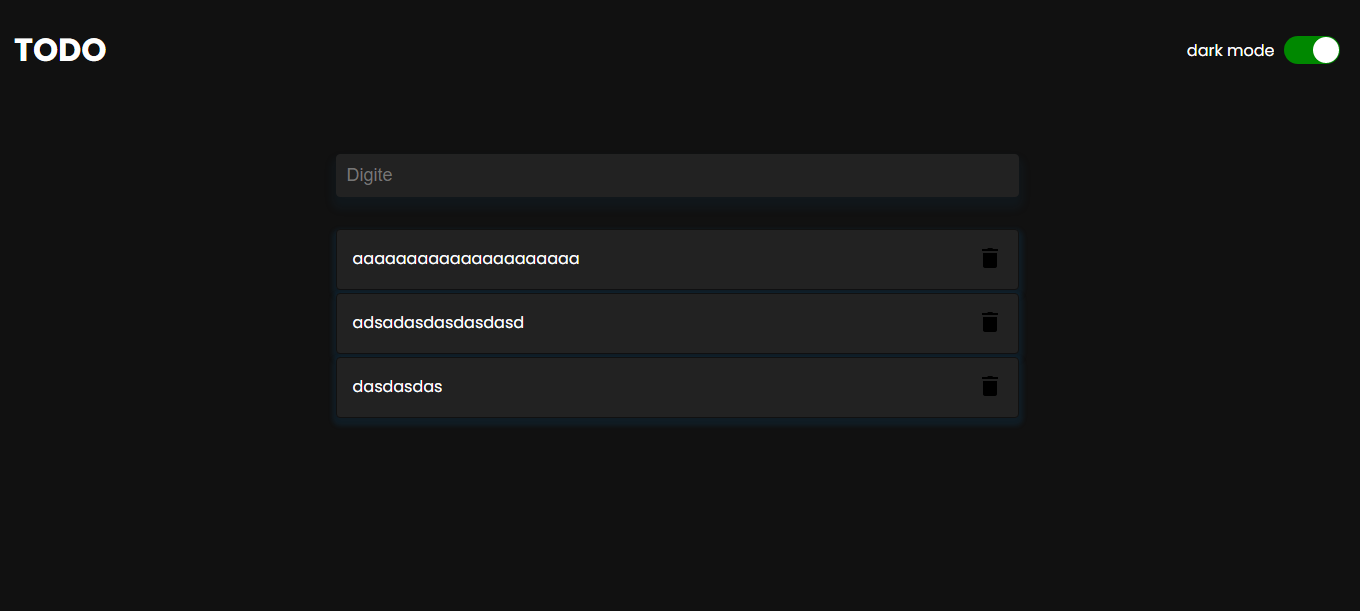
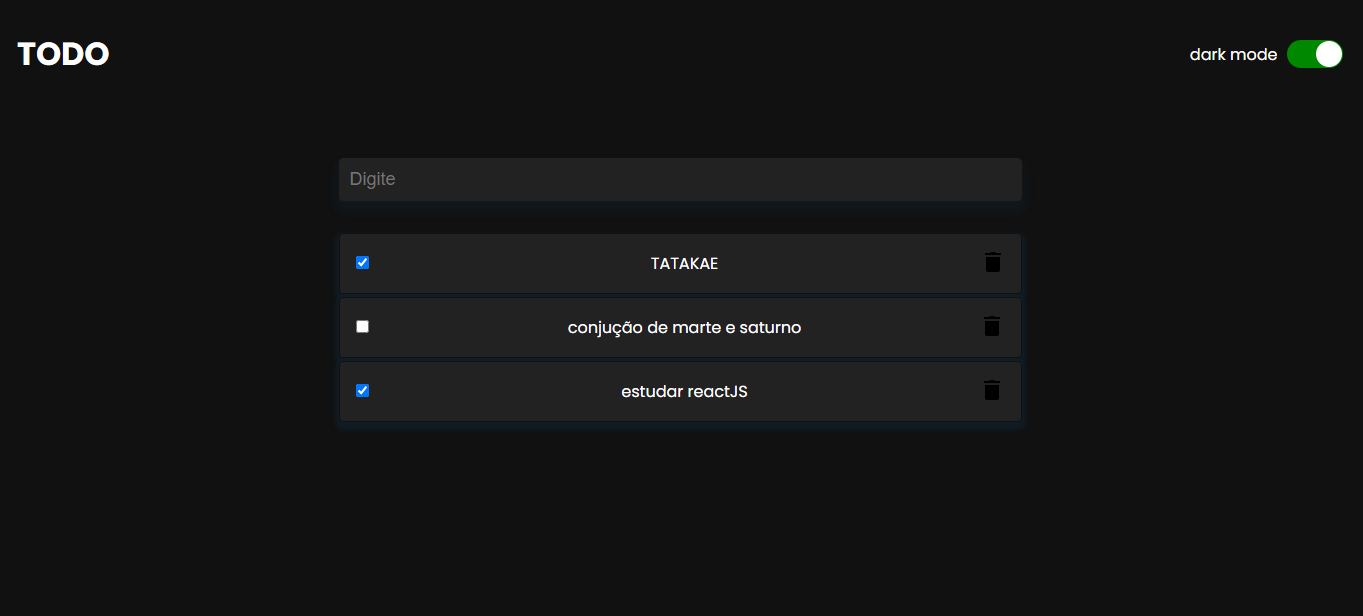
adding checked

diff --git a/front-end/src/components/Todo/index.tsx b/front-end/src/components/Todo/index.tsx
@@ -6,6 +6,7 @@ import { useEffect, useState } from 'react';
 interface todoProps {
     id: string;
     description: string;
+    done: boolean;
 }
 
 export const Todo = () => {
@@ -24,6 +25,12 @@ export const Todo = () => {
             console.log(response.data);
         })
     }, [todos]);
+
+    const onSubmitToggle = (todo: todoProps) => {
+        const index = todos.indexOf(todo);
+        todos[index].done = !todo.done;
+        setTodo([...todos]);
+    }
     
     return(
         <C.container>
@@ -31,6 +38,13 @@ export const Todo = () => {
                 return(
                     <>
                         <div className="container">
+                            <label>
+                                <input
+                                type="checkbox" 
+                                checked={todo.done} 
+                                onChange={() => onSubmitToggle}
+                                />
+                            </label>
                             <p>{todo.description}</p>
                             <button id={todo.id} onClick={handleSubmitDelete}>
                                 <img src={MyIcon} alt={todo.id} />

diff --git a/front-end/src/components/Todo/style.ts b/front-end/src/components/Todo/style.ts
@@ -9,16 +9,19 @@ export const container = styled.div `
     margin-left: auto;
     margin-right: auto;
     margin-bottom: 1rem;
+
     .container {
         display: flex;
+        align-items: center;
         justify-content: space-between;
-        border: 1px solid ${props => props.theme.colors.background};;
+        border: 1px solid ${props => props.theme.colors.background};
         background: ${props => props.theme.colors.secundary};
         box-shadow: 0.25px 0.25rem 0.25rem 0.25rem rgba(17, 76, 116, 0.2);
         padding: 1rem;
         border-radius: 0.25rem;
         margin-bottom: 0.20rem;
     }
+
     .container button {
         background: none;
         border: none;
@@ -26,6 +29,7 @@ export const container = styled.div `
     }
      
     .container p {
+        margin-left: 20px;
         font-family: 'Poppins', sans-serif;
         word-break: break-word;
     }
